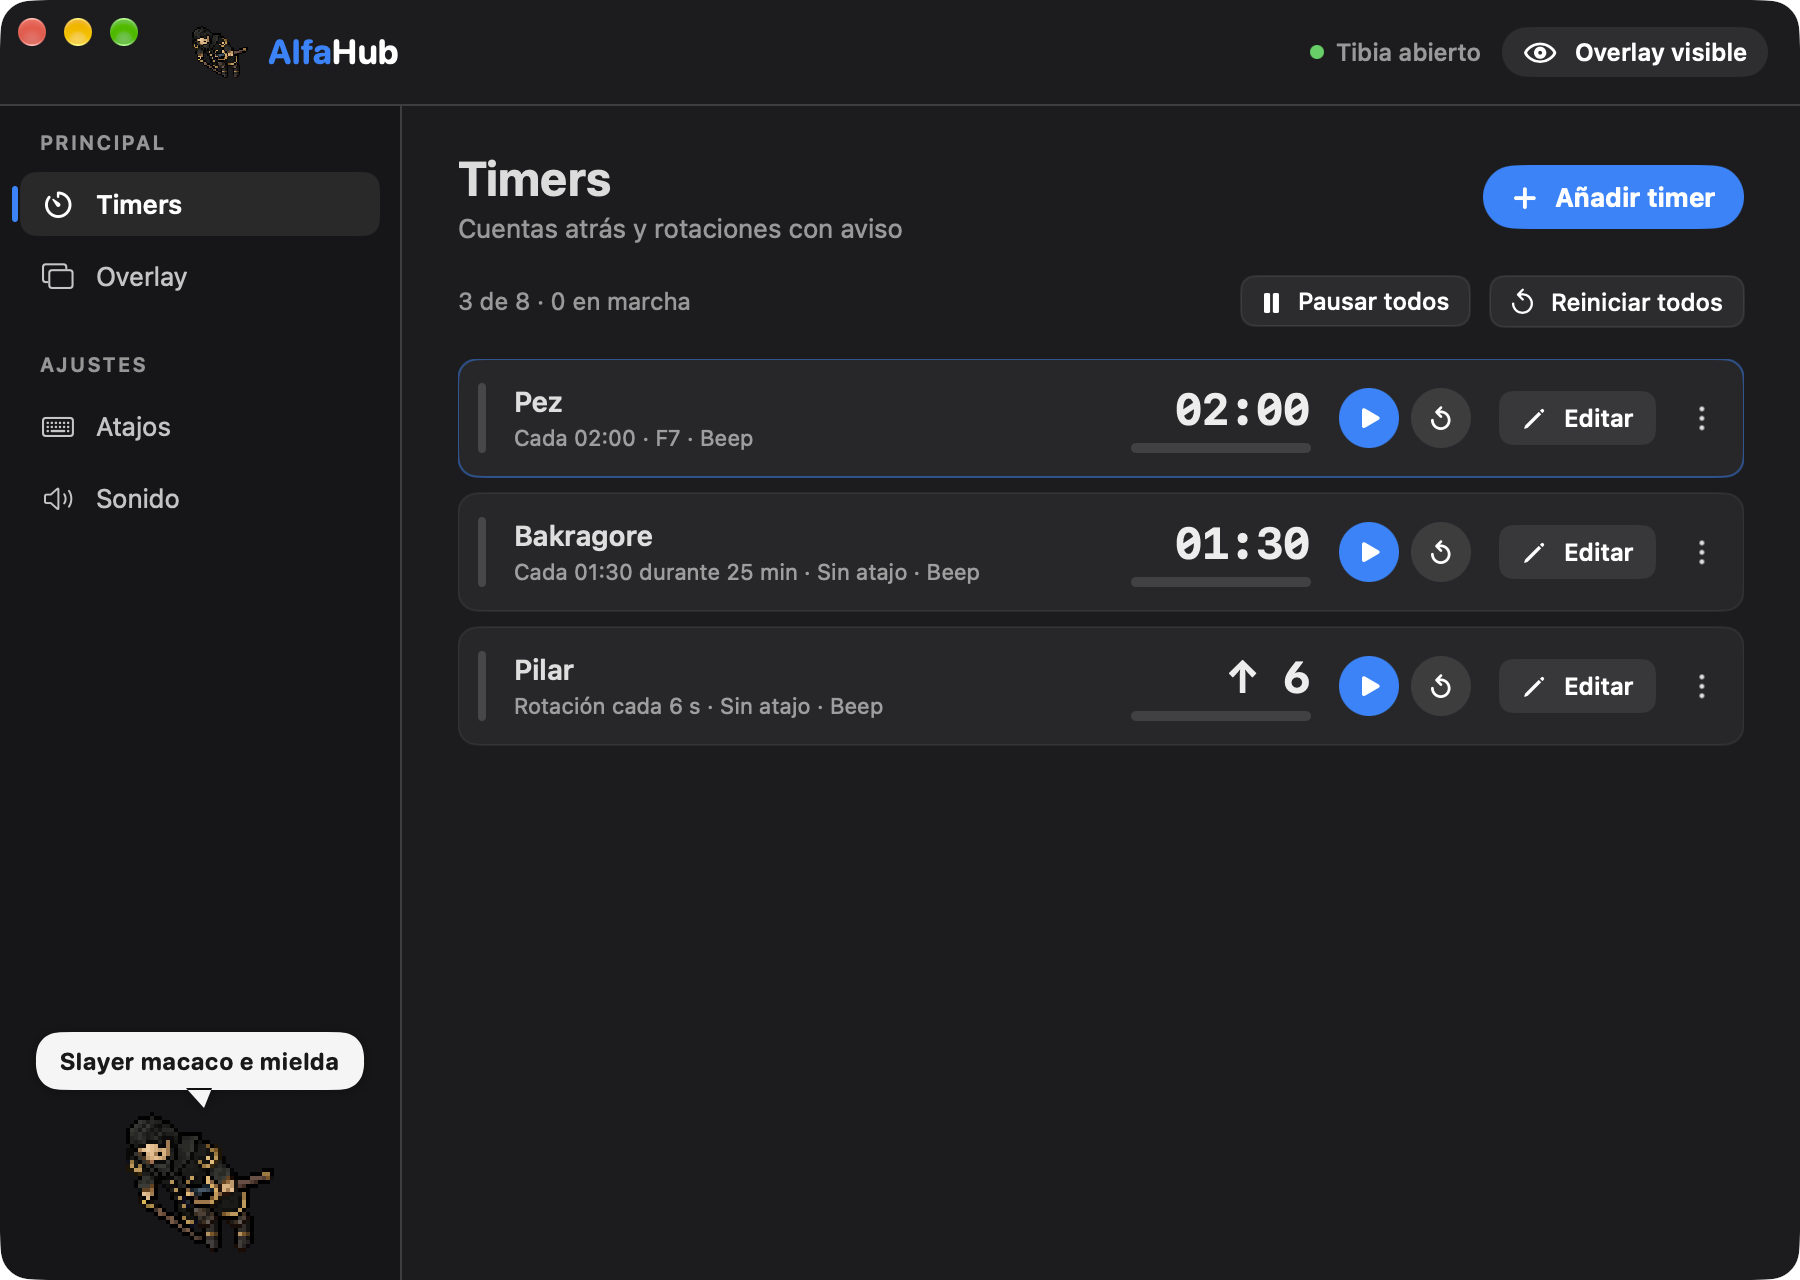
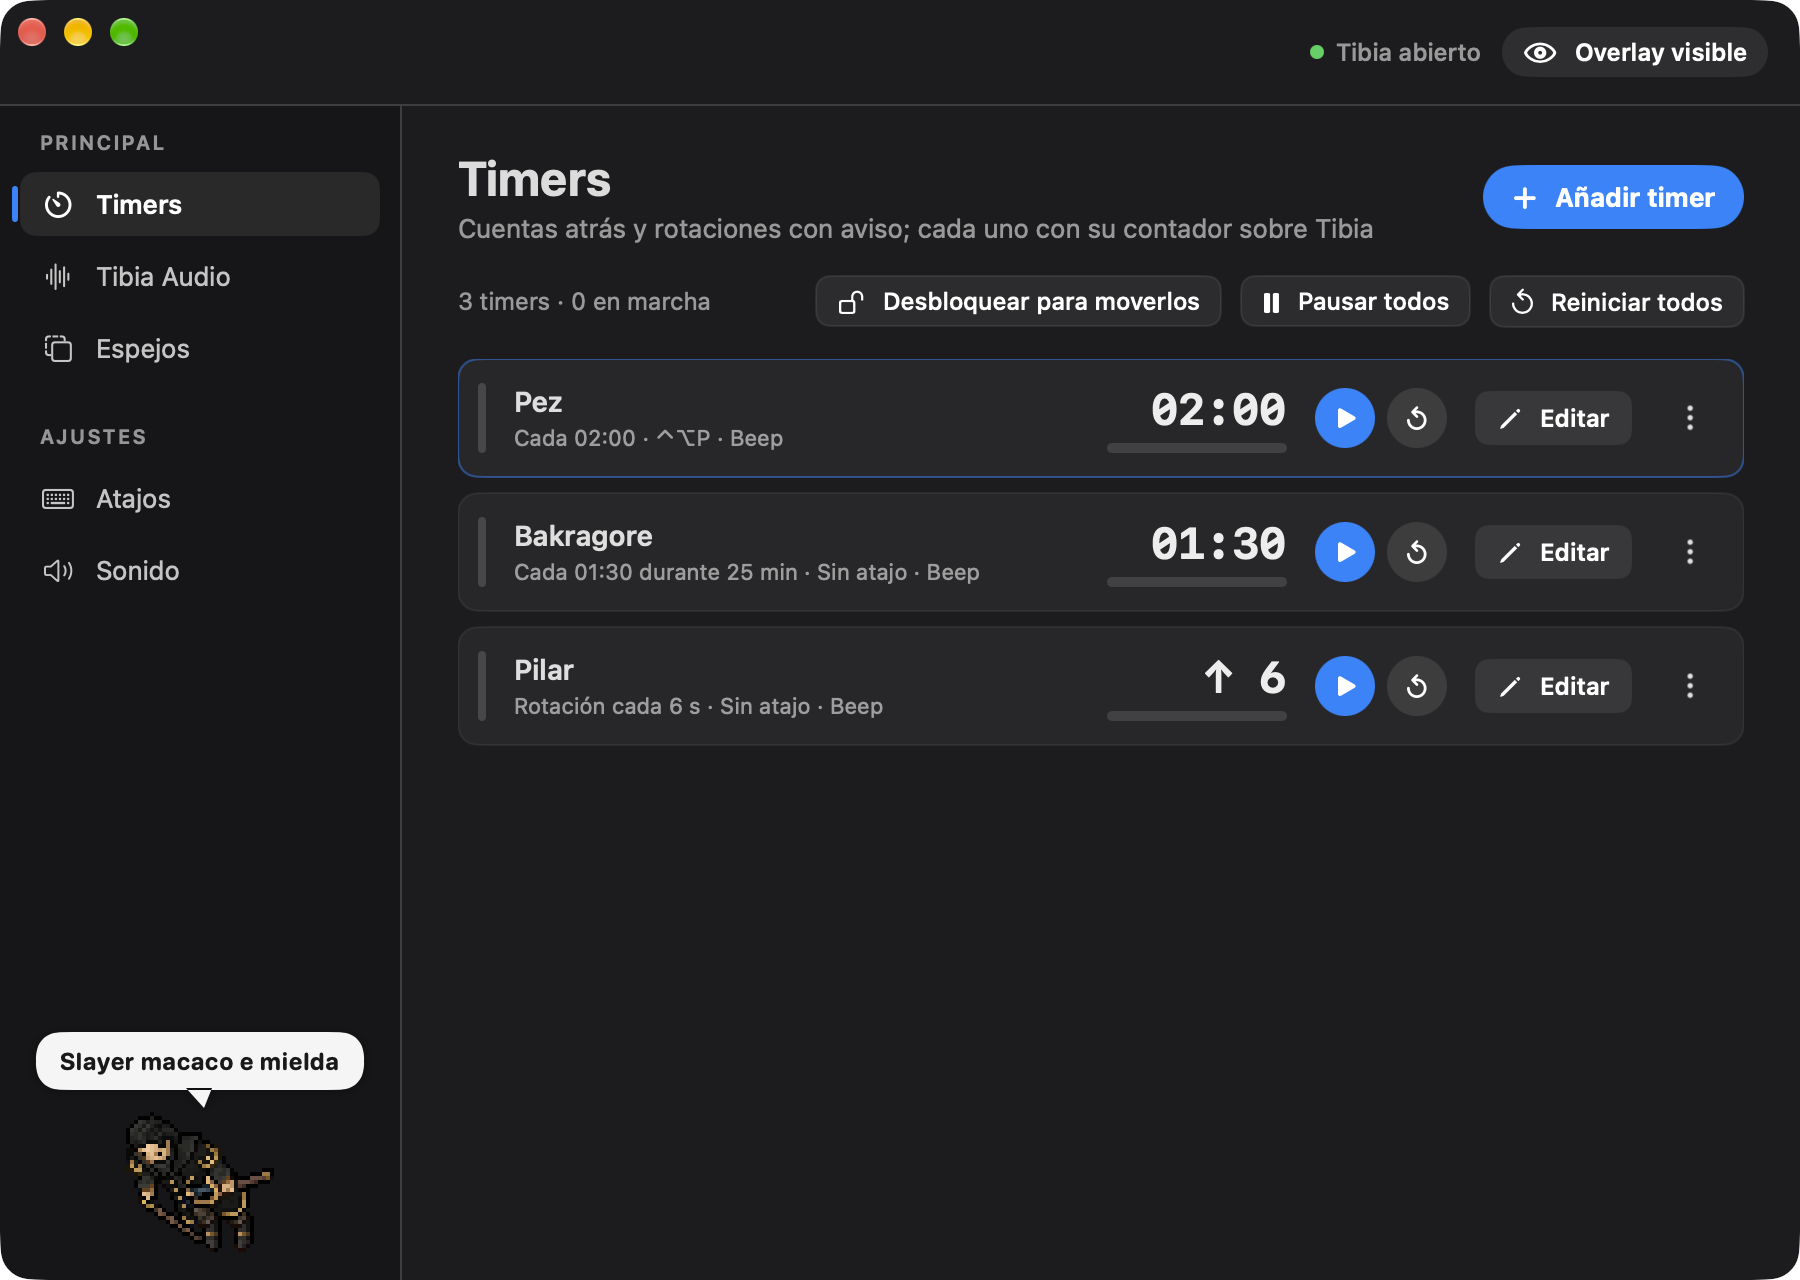
Documentación: Tibia Audio, overlay por timer y sonidos

diff --git a/docs/DISENO-REFERENCIA.md b/docs/DISENO-REFERENCIA.md
@@ -12,22 +12,24 @@ verifica con el workflow *Capturas Windows* (GitHub Actions), que sube sus captu
 | [01-timers.png](capturas/01-timers.png) | Página **Timers**: lista de timers en pausa |
 | [02-editor-cuenta-atras.png](capturas/02-editor-cuenta-atras.png) | Editor de un timer de **cuenta atrás** (Pez) |
 | [03-editor-rotacion.png](capturas/03-editor-rotacion.png) | Editor de un timer de **rotación** (Pilar) |
-| [04-overlay.png](capturas/04-overlay.png) | Página **Overlay**: vista previa, ajustes y colores |
+| [04-editor-overlay.png](capturas/04-editor-overlay.png) | Sección **Overlay** del editor de un timer: vista previa, tamaño, opacidad y colores |
 | [05-atajos.png](capturas/05-atajos.png) | Página **Atajos**: uno por timer y los globales |
 | [06-sonido.png](capturas/06-sonido.png) | Página **Sonido** |
 | [07-timers-en-marcha.png](capturas/07-timers-en-marcha.png) | Lista con dos timers en marcha |
 | [08-overlay-sobre-tibia.png](capturas/08-overlay-sobre-tibia.png) | El **overlay** con dos timers apilados, encima de Tibia |
 | [09-espejos.png](capturas/09-espejos.png) | Página **Espejos** (macOS, sin el permiso de grabación todavía) |
 | [10-espejo-windows.png](capturas/10-espejo-windows.png) | Un **espejo** en Windows (abajo a la derecha) copiando parte de otra ventana, con el overlay de timers |
+| [11-tibia-audio.png](capturas/11-tibia-audio.png) | Página **Tibia Audio** con una habilidad en cooldown |
+| [12-editor-tibia-audio.png](capturas/12-editor-tibia-audio.png) | Editor de una habilidad de Tibia Audio |
 
 ## Estructura
 
 Ventana de ~900 × 640 pt (mínimo 820 × 600).
 
-1. **Barra superior** (52 pt): personaje pequeño + "**Alfa**Hub" ("Alfa" en azul); a la derecha,
-   el estado "● Tibia abierto / cerrado" y un botón cápsula "Overlay visible / oculto".
+1. **Barra superior** (52 pt), sin logo ni nombre: a la derecha, el estado "● Tibia abierto / cerrado"
+   y un botón cápsula "Overlay visible / oculto".
 2. **Barra lateral** (200 pt, fondo más oscuro):
-   - Sección **PRINCIPAL**: *Timers* (con un contador verde de timers en marcha), *Espejos* y *Overlay*.
+   - Sección **PRINCIPAL**: *Timers* (con un contador verde de timers en marcha), *Tibia Audio* y *Espejos*.
    - Sección **AJUSTES**: *Atajos* y *Sonido*.
    - Elemento elegido: fondo gris suave y marca azul vertical a la izquierda.
    - Al pie: la **nube de diálogo** "Slayer macaco e mielda" (punta hacia abajo) y el personaje a 2×.
@@ -36,7 +38,8 @@ Ventana de ~900 × 640 pt (mínimo 820 × 600).
 ### Página Timers
 
 - Cabecera con el botón azul **＋ Añadir timer** (menú: Pez, Bakragore, Pilar, Personalizado).
-- Línea "3 de 8 · 1 en marcha" y botones **Pausar todos** / **Reiniciar todos**.
+- Línea "3 timers · 1 en marcha" y botones **Desbloquear para moverlos** (contadores del overlay),
+  **Pausar todos** / **Reiniciar todos**. Sin límite de timers.
 - Una **fila por timer** (tarjeta redondeada): barra de estado de 4 pt a la izquierda
   (gris parado, verde en marcha, ámbar en pausa, rojo en alerta o terminado), nombre en negrita y
   resumen gris ("Cada 02:00 · F7 · Beep"), contador monoespaciado con barra de progreso, botones
@@ -49,12 +52,27 @@ Ventana de ~900 × 640 pt (mínimo 820 × 600).
 - Secciones: **Timer** (nombre, tipo *Cuenta atrás / Rotación*, cargar preset), **Duración**
   (botones 01:00…03:00, personalizado, repetir, duración total) o **Rotación** (segundos por
   dirección, dirección inicial, beeps), **Avisos**, **Sonido y atajo** (sonido propio o beep,
-  probar, atajo iniciar/pausar) y **Eliminar este timer**.
+  probar, atajo iniciar/pausar), **Overlay** (mostrar en el overlay, vista previa, ver en alerta,
+  tamaño, opacidad, colores del contador, de la alerta y del fondo, restaurar colores, volver a su
+  sitio automático) y **Eliminar este timer**.
+- Sonidos incluidos (iguales en las dos versiones): Beep, Doble beep, Triple beep, Ding, Campana,
+  Carillón, Jingle, Moneda, Alarma, Sirena, Burbuja, Descenso, Gong y Tic; o un archivo propio.
+
+### Página Tibia Audio
+
+- Cabecera con **＋ Añadir habilidad** (abre su editor).
+- Interruptor **Activar Tibia Audio** (apagado por defecto), estado ("1 habilidad · Escuchando con
+  Tibia al frente") y **Probar todas**. En macOS, aviso ámbar si falta el permiso de Monitorización de entrada.
+- Una fila por habilidad: barra verde (lista) o ámbar (en cooldown), nombre, "1 · 2 s · Ding", segundos
+  que faltan ("1,5 s" en ámbar o "Lista") con barra, interruptor, volumen, **Editar** y ⋮ (Probar, Duplicar, Eliminar).
+- Editor: nombre, activada, **tecla en Tibia** (cualquier tecla, también sin modificador), cooldown
+  (segundos, pasos de 0,5), qué pasa si se pulsa durante el cooldown (vuelve a empezar / se ignora),
+  sonido, volumen, simular pulsación y eliminar.
 
 ### Página Espejos
 
 - Cabecera con **＋ Añadir espejo**: oculta el hub y oscurece la ventana de Tibia para arrastrar la región.
-- Línea "1 de 10 · 1 visibles" con **Ocultar/Mostrar todos** y **Desbloquear para moverlos / Bloquear**.
+- Línea "1 espejo · 1 visibles" con **Ocultar/Mostrar todos** y **Desbloquear para moverlos / Bloquear**.
 - Una fila por espejo: barra verde si está visible, nombre, "410 × 130 px · 100 % · Visible",
   interruptor de visible, opacidad, **Editar** y ⋮ (volver a elegir la región, eliminar).
 - Editor: nombre, visible, tamaño (25–400 %), opacidad, borde, volver a elegir la región, eliminar.
@@ -81,8 +99,10 @@ El **contador del overlay** usa el color que elige el usuario (por defecto morad
 
 ## Overlay
 
-- Muestra los timers **en marcha o a medias**, uno debajo de otro y alineados a la derecha;
-  si no hay ninguno, el timer elegido. Con más de un timer, cada contador lleva su nombre delante.
+- Una ventana por timer, con el aspecto de ese timer. Muestra los timers **en marcha o a medias**
+  (si no hay ninguno, el elegido); los que no tienen sitio propio se apilan arriba a la derecha.
+  Con más de un contador a la vista, cada uno lleva su nombre delante.
+- Desbloqueado se ven todos (con su overlay activado) para arrastrar cada uno; al soltarlo guarda su sitio.
 - Cuenta atrás: `mm:ss`. Rotación: flecha y segundos (`↑ 6`).
 - En alerta: color de alerta y parpadeo; en pausa: al 60 %; sin fondo: contorno negro;
   desbloqueado: borde ámbar discontinuo.

diff --git a/PRUEBAS-WINDOWS.md b/PRUEBAS-WINDOWS.md
@@ -23,7 +23,7 @@ de pantalla distinto de 100 %.
 
 - [ ] Al abrir `AlfaHub.exe`, si aparece "Windows protegió su PC", **Más información → Ejecutar de todas formas** funciona.
 - [ ] El `.exe` muestra el ícono del personaje (sin fondo) en el Explorador.
-- [ ] Se abre el hub con la barra de título oscura, la barra superior "AlfaHub" y la barra lateral.
+- [ ] Se abre el hub con la barra de título oscura, la barra superior (sin logo) y la barra lateral.
 - [ ] Aparece el ícono del personaje en la bandeja del sistema (junto al reloj).
 - [ ] Abrir el `.exe` por segunda vez muestra "Alfa Hub ya está abierto" y no abre otra copia.
 - [ ] Si venías de una versión anterior, el timer **Pez** conserva tu duración y tu atajo, y aparecen también **Bakragore** y **Pilar**.
@@ -32,12 +32,12 @@ de pantalla distinto de 100 %.
 
 - [ ] Se parece a las capturas de [docs/capturas/](docs/capturas/) (macOS).
 - [ ] Barra superior: "● Tibia abierto" en verde con Tibia abierto y "Tibia cerrado" en gris sin él.
-- [ ] Barra lateral: Timers (con un contador verde de timers en marcha), Overlay, Atajos, Sonido; personaje y nube al pie.
+- [ ] Barra lateral: Timers (con un contador verde de timers en marcha), Tibia Audio, Espejos, Atajos, Sonido; personaje y nube al pie.
 - [ ] Con el escalado de Windows al 125 % y al 150 %, nada se corta ni se solapa.
 
 ## 3. Timers
 
-- [ ] **＋ Añadir timer** ofrece Pez, Bakragore, Pilar y Personalizado, y abre el editor del nuevo (máximo 8).
+- [ ] **＋ Añadir timer** ofrece Pez, Bakragore, Pilar y Personalizado, y abre el editor del nuevo (sin límite).
 - [ ] En la lista, ▶ inicia y ❚❚ pausa cada timer por separado; ↺ lo reinicia; la barra de color de cada fila cambia (verde, ámbar, rojo).
 - [ ] Varios timers pueden ir a la vez y "N en marcha" se actualiza.
 - [ ] **Pausar todos** y **Reiniciar todos** funcionan.
@@ -56,7 +56,7 @@ de pantalla distinto de 100 %.
 - [ ] **Cargar preset** cambia la configuración y conserva el sonido y el atajo.
 - [ ] Duración: botones 01:00…03:00, personalizado (min / s, mínimo 5 s), repetir y duración total.
 - [ ] Rotación: segundos por dirección, dirección inicial y beeps.
-- [ ] **Sonido de aviso → Elegir…** acepta un `.wav` y un `.mp3`; **Probar sonido** lo reproduce con el volumen de la app; ✕ vuelve al beep.
+- [ ] **Sonido de aviso**: el menú tiene 14 sonidos y cada uno suena al elegirlo; **Archivo propio…** acepta un `.wav` y un `.mp3`; **Probar** lo reproduce con el volumen de la app.
 - [ ] Si el archivo de sonido se borra o mueve, suena el beep en su lugar.
 - [ ] **Atajo iniciar / pausar** de cada timer funciona con Tibia al frente.
 - [ ] **Eliminar este timer** lo borra y vuelve a la lista.
@@ -70,11 +70,19 @@ Probar con Tibia abierto, primero en **modo ventana** y luego en **pantalla comp
 - [ ] Se ve **encima de Tibia** en modo ventana y en pantalla completa (si no, anotar el modo de pantalla de Tibia).
 - [ ] Los **clics atraviesan** el overlay y llegan a Tibia.
 - [ ] El overlay **no roba el foco**: se puede seguir escribiendo/jugando en Tibia.
-- [ ] Al añadir un segundo timer el overlay crece hacia la izquierda sin salirse de la pantalla.
-- [ ] "Desbloquear para moverlo": borde ámbar, se arrastra y al bloquear los clics vuelven a atravesarlo; la posición se conserva al reiniciar la app.
-- [ ] "Volver a la esquina superior derecha", "Tamaño", "Opacidad" y "Mostrar overlay" funcionan.
+- [ ] Cada timer tiene su propio contador; sin sitio propio se apilan arriba a la derecha.
+- [ ] Timers → "Desbloquear para moverlos": se ven todos con borde ámbar, cada uno se arrastra por separado y al bloquear los clics vuelven a atravesarlos; los sitios se conservan al reiniciar la app.
+- [ ] En el editor de cada timer, sección **Overlay**: mostrar en el overlay, tamaño, opacidad, colores (contador, alerta, fondo y su opacidad; a 0 deja solo el número con contorno), "Restaurar colores" y "Volver a su sitio automático".
 - [ ] Botón "Overlay visible / oculto" de la barra superior y atajo Ctrl+Alt+O.
-- [ ] Colores: contador, alerta, fondo y opacidad del fondo (a 0 deja solo el número con contorno); "Restaurar colores".
+
+## 5b. Tibia Audio
+
+- [ ] **＋ Añadir habilidad** abre su editor; "Tecla en Tibia" acepta una tecla sola (p. ej. **1** o **F1**) o con modificador.
+- [ ] Con **Activar Tibia Audio** encendido y Tibia al frente, pulsar la tecla en el juego **usa la habilidad en Tibia** (la tecla llega al juego) y empieza el cooldown en la fila.
+- [ ] Al terminar el cooldown suena el sonido elegido con su volumen.
+- [ ] "Si la pulsas durante el cooldown": *Vuelve a empezar* reinicia la cuenta; *Se ignora* no.
+- [ ] Con otra ventana al frente (no Tibia), pulsar la tecla no hace nada.
+- [ ] Si la tecla también es un atajo de Alfa Hub, el editor lo avisa.
 
 ## 6. Espejos
 

diff --git a/LEEME.md b/LEEME.md
@@ -4,12 +4,18 @@ Timers para Tibia con overlay (basado en los timers de cueistoreservices.com.br/
 
 - **Timers**: varios a la vez, con presets **Pez** (cada 2:00), **Bakragore** (mecánica cada 1:30
   durante 25 min), **Pilar** (rotación de los Totens cada 6 s) o personalizados. Cada uno tiene su
-  duración, avisos, sonido propio (.wav/.mp3 o beep) y atajo de iniciar/pausar.
+  duración, avisos, sonido (14 incluidos o un .wav/.mp3 propio), atajo de iniciar/pausar y su propio
+  contador sobre Tibia (tamaño, opacidad, colores y sitio), que se edita en el editor del timer.
+- **Tibia Audio**: pones la tecla con la que usas una habilidad en Tibia y su cooldown; al pulsarla en
+  el juego empieza la cuenta y suena un aviso cuando la habilidad vuelve a estar lista. La tecla sigue
+  llegando a Tibia (Alfa Hub solo la mira). Está apagado hasta que lo activas.
 - **Espejos**: copia partes de la ventana de Tibia (cooldowns, hechizos, barra de vida…) en ventanitas
   flotantes que pones donde quieras; solo se ven con Tibia al frente y dejan pasar los clics.
-- **Overlay**: los contadores de los timers en marcha, encima de Tibia y únicamente mientras Tibia
-  está al frente. Los clics lo atraviesan y llegan al juego.
-- **Hub**: barra lateral con Timers, Overlay, Atajos y Sonido (ver [docs/DISENO-REFERENCIA.md](docs/DISENO-REFERENCIA.md)).
+- **Overlay**: el contador de cada timer en marcha, encima de Tibia y únicamente mientras Tibia
+  está al frente. Los clics lo atraviesan y llegan al juego. "Desbloquear para moverlos" (página
+  Timers) los muestra todos para arrastrar cada uno a su sitio.
+- Sin límite de timers, habilidades ni espejos.
+- **Hub**: barra lateral con Timers, Tibia Audio, Espejos, Atajos y Sonido (ver [docs/DISENO-REFERENCIA.md](docs/DISENO-REFERENCIA.md)).
 
 ## Windows
 
@@ -24,7 +30,8 @@ Descarga `AlfaHub.exe` desde la última **Release** del repositorio. No necesita
 
 Atajos por defecto: **Ctrl+Alt+P** iniciar/pausar el timer Pez, **Ctrl+Alt+R** reiniciar el último
 timer usado, **Ctrl+Alt+O** mostrar/ocultar overlay. Cada timer puede tener su propio atajo.
-Los ajustes se guardan en `%APPDATA%\AlfaHub\ajustes.ini` y los timers en `timers.json`.
+Los ajustes se guardan en `%APPDATA%\AlfaHub\ajustes.ini`; los timers en `timers.json`, los espejos
+en `espejos.json` y Tibia Audio en `audio.json`.
 
 Si el overlay no se ve encima de Tibia, pon Tibia en modo ventana o pantalla completa sin bordes
 (una pantalla completa exclusiva no deja dibujar ventanas encima).
@@ -38,6 +45,9 @@ Alfa Hub es un programa aparte que **no toca el cliente de Tibia**:
 - para saber si Tibia está al frente solo mira el nombre del proceso y el título de la ventana
   activa, igual que el Administrador de tareas;
 - los atajos son atajos globales normales de Windows (`RegisterHotKey`);
+- **Tibia Audio** no instala ganchos de teclado: con Tibia al frente pregunta cada 15 ms si están
+  pulsadas las teclas de tu lista (`GetAsyncKeyState`, solo lectura). No bloquea la tecla, no envía nada
+  y no guarda lo que escribes;
 - los **espejos** usan las miniaturas de ventana de Windows (DWM, las mismas de la vista previa de
   la barra de tareas): las dibuja el sistema dentro de la ventana del espejo; Alfa Hub no captura la
   pantalla ni lee píxeles del cliente.
@@ -56,6 +66,12 @@ ventana de Tibia con ScreenCaptureKit, de una de estas dos formas (se elige en l
   cada vez que abres Alfa Hub o reinicias Tibia.
 - **Automática**: Alfa Hub encuentra la ventana solo; necesita el permiso de **Grabación de pantalla**
   ("Abrir Ajustes" añade la app a la lista: solo hay que activarla) y macOS lo reconfirma de vez en cuando.
+
+**Tibia Audio** necesita el permiso de **Monitorización de entrada** (el mismo que piden Discord u OBS
+para sus atajos en segundo plano): es una escucha de solo lectura del teclado, que no bloquea la tecla
+ni la cambia. Alfa Hub solo la usa con Tibia Audio activado y Tibia al frente, y solo compara cada
+pulsación con las teclas de tu lista. Los atajos de Alfa Hub (⌃⌥P…) no sirven para esto porque se
+quedan con la tecla y Tibia no la recibiría.
 
 Atajos por defecto: **⌃⌥P** (timer Pez), **⌃⌥R** (reiniciar el último timer usado), **⌃⌥O** (overlay).
 
